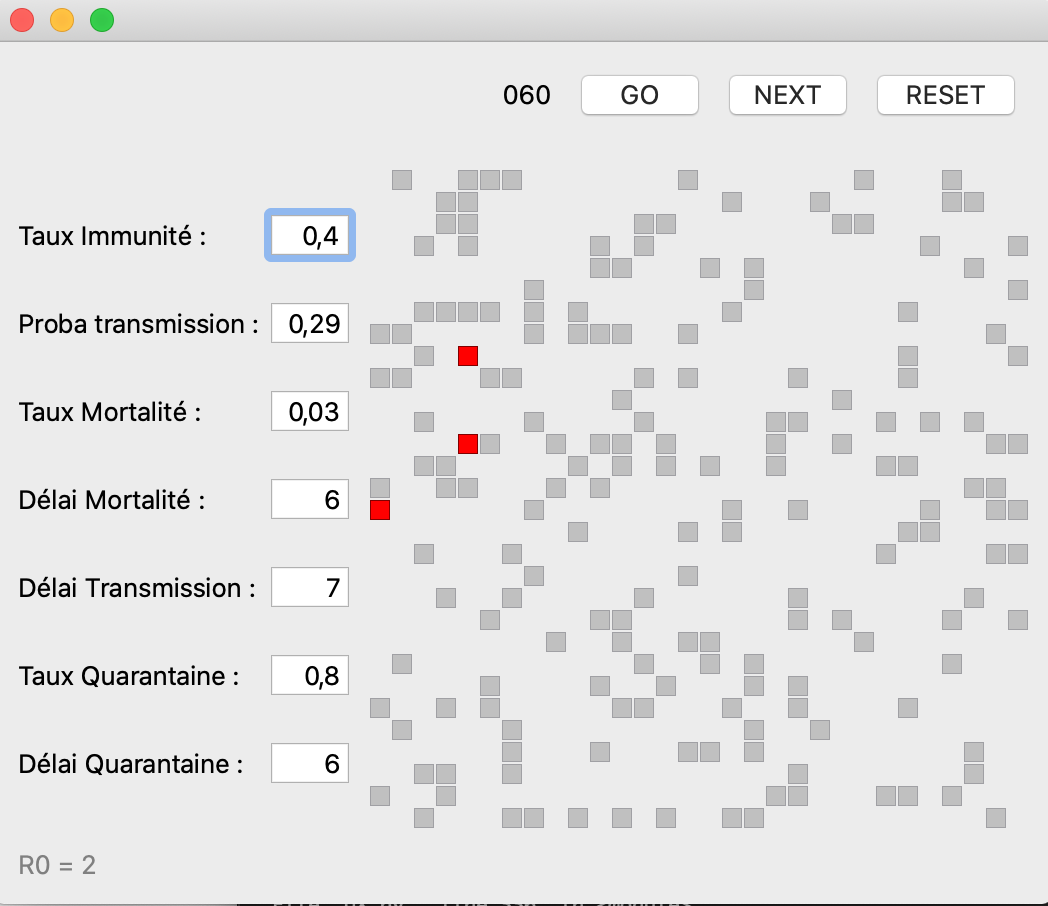
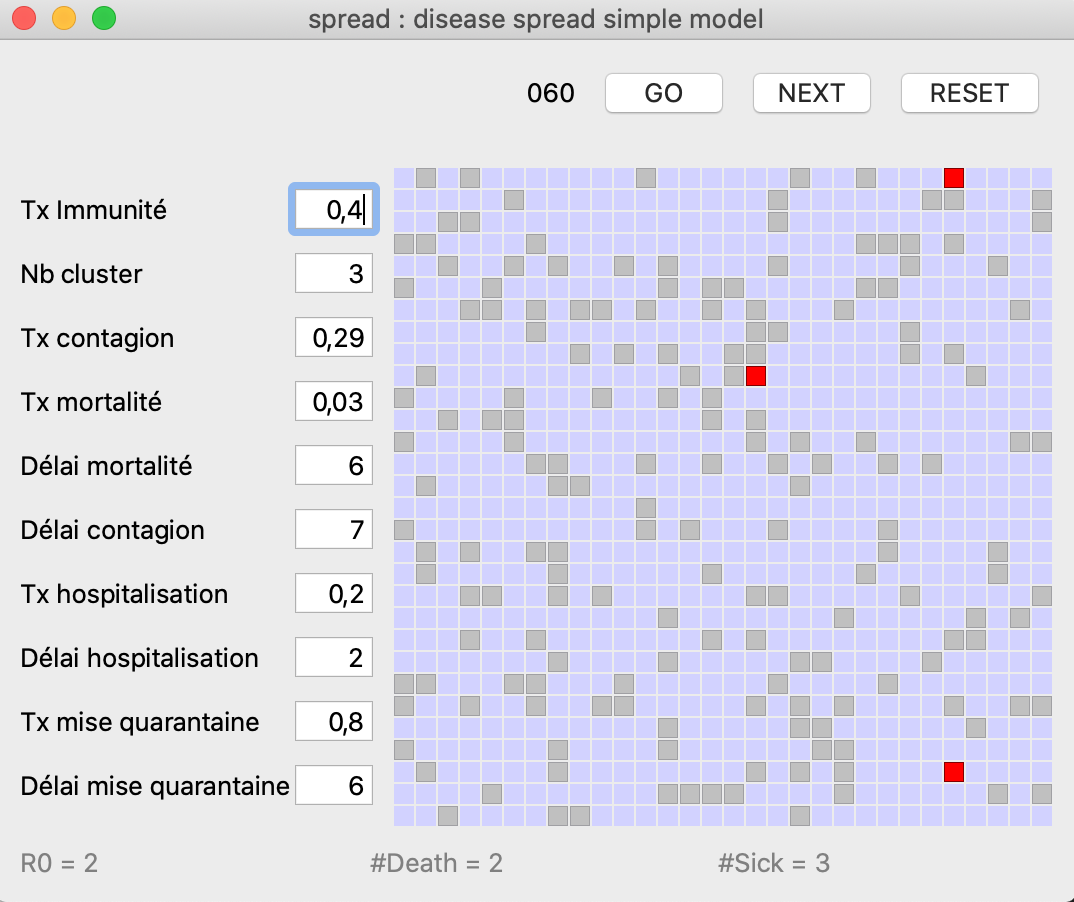
v0.2.0 illustrations

diff --git a/README.md b/README.md
@@ -49,13 +49,14 @@ Usage: spread [options] round_number board_size cluster_number
 ## Output examples
 
 The result is displayed through a simple grid, that shows if an individual is :
-- Not ill (white color)
+- Not sick (light blue color)
 - Immune (grey color)
-- Ill (red color)
+- Sick (red color)
 - In quarantine (yellow color)
+- Hospitalized (dark blue color)
 - Dead (black color)
 
-At the beginning, a given population is composed of immune people, not immune people, and ill people (the first clusters). 
+At the beginning, a given population is composed of immune people, not immune people, and sick people (the first clusters). 
 Right now there a 3 clusters in the application, and that must be changed directly into the python code.
 
 <img src="images/Illustration-1.png" alt="Start Window" width="450" align="middle" />
